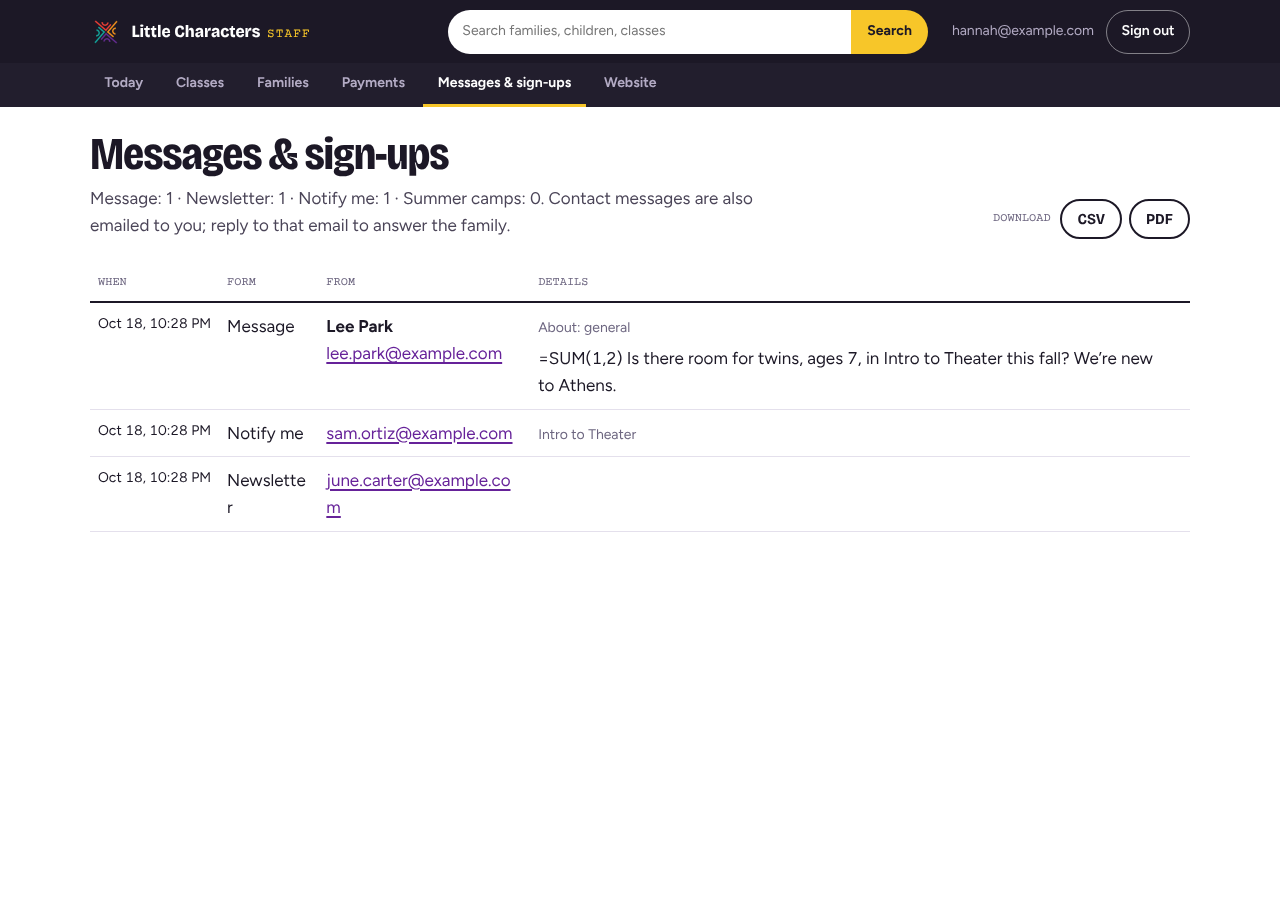
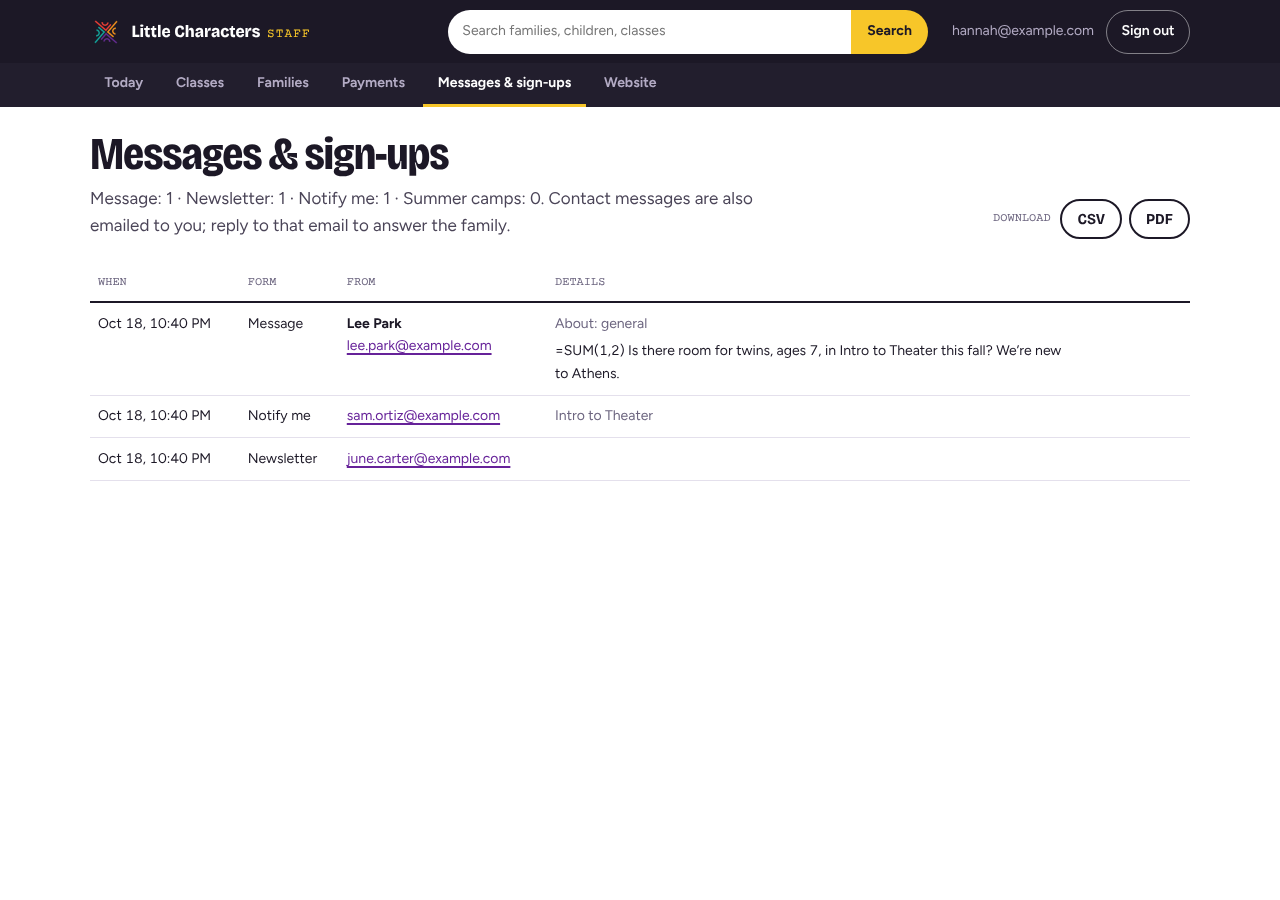
Back office foundation: table wrapping on phones, screenshots with entries, report
Claude-Session: https://claude.ai/code/session_01CxB1nuNKieCGGBpSBJkms3

Changed region(s): [[0.0625, 0.4356, 0.4062, 0.5911], [0.4062, 0.3111, 0.9062, 0.4978], [0.1875, 0.3111, 0.4062, 0.4044]]

diff --git a/src/styles/admin.css b/src/styles/admin.css
@@ -222,9 +222,10 @@
 .staff-card > h2 { font-size: var(--step-1); }
 .staff-cards { display: grid; grid-template-columns: repeat(auto-fill, minmax(min(100%, 18rem), 1fr)); gap: var(--space-m); }
 
-/* Data table: rows on a computer, stacked cards on a phone. Give each td a data-label. */
+/* Data table: rows on a computer, stacked cards on a phone. Give each td a data-label, and one child element. */
 .data-table { width: 100%; border-collapse: collapse; font-variant-numeric: tabular-nums; }
-.data-table th, .data-table td { text-align: left; padding: 0.6rem 0.5rem; border-bottom: 1px solid var(--line); vertical-align: top; overflow-wrap: anywhere; }
+.data-table th, .data-table td { text-align: left; padding: 0.6rem 0.5rem; border-bottom: 1px solid var(--line); vertical-align: top; overflow-wrap: break-word; }
+.data-table td { font-size: var(--step--1); }
 .data-table th { font-family: var(--font-script); font-size: var(--step--2); font-weight: 400; text-transform: uppercase; color: var(--ink-mute); border-bottom: 2px solid var(--ink); }
 .data-table .num { text-align: right; white-space: nowrap; }
 .data-table tbody tr:hover { background: var(--hall); }

diff --git a/.orchestration/foundation/report.md b/.orchestration/foundation/report.md
@@ -1,0 +1,157 @@
+# Foundation unit: report
+
+Branch `claude/bo-foundation`, started from `claude/blissful-archimedes-enun5m`. No compaction or restart happened during this unit.
+
+## Result
+
+### What changes for families
+Nothing they can see. The family site's pages, enrollment, checkout, billing and prices are unchanged. Their sessions still last 90 days. The database has new, empty places for emergency contacts, pickup people, ZIP code and how the family heard about Little Characters; the Family contacts unit adds the forms.
+
+### What changes for Hannah
+- **Staff pages have their own look.** On a computer there's a dark top bar with the sections (Today, Classes, Families, Payments, Messages & sign-ups, Website), a search box, her email and Sign out. On a phone there's the page title at the top with a back link and a Menu, and tabs at the bottom: Today, Classes, Search, Alerts. The family site's header and footer are gone from staff pages.
+- **New addresses:** rosters are under Classes (`/admin/classes`), monthly autopay under Payments (`/admin/payments`). Old links and bookmarks still work.
+- **`/admin` is now Today**, a placeholder for now, with links to Classes and Payments.
+- **Messages & sign-ups downloads** as a spreadsheet (CSV) and a PDF, and both have the same rows as the page. A download within 15 minutes of signing in just works. Later, she's asked for a new emailed code first ("Confirm it's you before downloading").
+- **The phone app:** "Put the app on your phone" (in the phone menu) shows how to add "LC Staff" to the home screen.
+- **Staff sign-in now lapses after 30 days without use** (it was 90 days, like families).
+
+### By file
+- **Data:** `src/server/db/schema.ts`, `drizzle/0009_back_office.sql` (+ snapshot, journal). New household columns `emergency_contacts`, `pickup_people`, `contacts_confirmed_at`, `zip`, `heard_about`. New tables `household_note`, `message`, `message_recipient`, `waitlist_offer`, with relations and exported types (`Household`, `HouseholdNote`, `Message`, `MessageRecipient`, `WaitlistOffer`, and `New…` insert types).
+- **`src/lib/contacts.ts`:** zod inputs, `normalizePhone`, `formatPhone`, `telHref`, `smsHref`, and the types `EmergencyContact` and `PickupPerson`.
+- **`src/lib/admin-links.ts`:** the link contract, plus `downloads(listPath)` and `safeStaffPath(next)`.
+- **`src/lib/badges.ts`**, **`src/components/admin/Badges.astro`:** the badges.
+- **`src/lib/csv.ts`**, **`src/server/downloads.ts`**, **`src/components/admin/DownloadLinks.astro`:** downloads. The `pdfkit` dependency is added.
+- **`src/server/staff.ts`:** `requireStaff`, `requireFreshStaff`, `signedInRecently`, `staffSessionIdle`, `readSession`.
+  - `src/middleware.ts` reads sessions through `readSession`.
+  - `src/server/auth.ts` exports the session lengths.
+  - `src/env.d.ts`: `locals.session` has `createdAt` and `updatedAt`.
+- **The shell:** `src/components/admin/AdminShell.astro` (rewritten) and `src/styles/admin.css` (the shell, plus the shared styles).
+  - `src/layouts/Base.astro` gets three small hooks: `chrome`, `themeColor` and a `head` slot.
+  - `src/components/portal/SignInPanel.astro` gets an optional `email` prop.
+- **Moved pages** (git renames, content unchanged apart from the shell props, `requireStaff` and the contract links):
+  - `admin/index.astro` → `admin/classes/index.astro`;
+  - `admin/[sessionId].astro` → `admin/classes/[sessionId].astro`;
+  - `admin/billing.astro` → `admin/payments/index.astro`;
+  - `admin/billing/[orderId].astro` → `admin/payments/[orderId].astro`.
+- **Redirects:** `admin/[sessionId].ts`, `admin/billing.ts`, `admin/billing/[orderId].ts`, `src/server/moved.ts`.
+- **New pages:**
+  - `admin/index.astro` (Today placeholder);
+  - `admin/search.astro` and `admin/attention.astro` (placeholders, so the tabs don't land on 404 before the Search and Today units merge);
+  - `admin/confirm.astro`, `admin/install.astro`;
+  - `admin/leads.pdf.ts`;
+  - `dev/age-session.ts` (development only).
+- **Leads:** `admin/leads.astro`, `admin/leads.csv.ts`, `src/server/leads.ts` (`staffLeads`, `leadsTable`, `LEAD_LABELS`, `leadWhen`).
+- **Phone app:** `public/admin/app.webmanifest`, `public/admin/icons/*.png`, `scripts/make-staff-icons.ts`.
+- **Docs:**
+  - new `docs/back-office.md`;
+  - `docs/security.md` (new data and who sees it, the staff session rules);
+  - address updates in `docs/portal.md`, `docs/staff-billing.md`, `docs/infrastructure.md`, `docs/todo.md`.
+- **Tests:**
+  - unit: `tests/unit/contacts.test.ts`, `badges.test.ts`, `downloads.test.ts`, `admin-links.test.ts`, `staff-session.test.ts`;
+  - browser: `tests/e2e/staff-foundation.mjs`;
+  - one changed line in `tests/e2e/enroll-journey.mjs`: the selector `a[href="/admin/billing/<id>"]` became `/admin/payments/<id>`, because the payments list now links to the new address. A redirect can't change an `href` on the page.
+- **Screenshots:** `.orchestration/foundation/shots/`.
+
+## Proof
+
+All with the Stripe keys blanked.
+
+- **`npm run check`:** 0 errors, 0 warnings (7 hints, all in existing browser tests).
+- **`npm test`:** 23 files, 479 tests passed. 39 of them are new: contacts 8, badges 10, CSV/PDF 7, link contract 6, session rules 8.
+  - The session tests sign in for real through Better Auth with an emailed code. They show that a staff session idle for 29 days is renewed, that one idle for 31 days reads as signed out (and is deleted), and that a family idle for 60 days stays signed in.
+- **`npm run build`:** completes.
+- **`npm run db:generate`** (`drizzle-kit generate --name back_office`): I read the SQL. It has four `CREATE TABLE`, five `ALTER TABLE household ADD COLUMN` (jsonb defaults `'[]'::jsonb NOT NULL`), the foreign keys with the asked-for cascade or set null, and six indexes. The migration applied on:
+  - each fresh local database (the unit tests and three fresh `serve.sh` databases);
+  - the Render preview step: `APP_ENV=development PGLITE_DIR=.data/ci-preview npm run db:prepare-preview` printed "Demo database ready … (peak memory 377 MB)", under CI's 450 MB limit.
+  - `billing:run --today 2026-10-01` on an in-memory database also ran.
+- **Browser tests,** on a fresh database (`tests/e2e/serve.sh`), in order:
+  - `enroll-journey` 23 checks, `trial-journey` 15, `content-editor` 11, `navigation` 64: all passed;
+  - `staff-foundation`: 86 checks passed (85 when there are no orders yet, because the old-order redirect check needs one).
+  - It covers sign-in, the top bar, the tab bar and menu at 390 px (tabs 64 px tall, menu items at least 44 px), the search box, every redirect, unknown ids returning 404, the manifest's JSON and icons without cookies, `/admin/install` (including the "using the app" message in standalone mode), and the leads CSV and PDF.
+  - On the downloads: they work right after sign-in; after aging the session 20 minutes, the CSV asks for a new code with the email filled in, and downloads after it. A formula-like message comes out as `'=SUM…`.
+  - It also checks that signed-out PDF links go to confirm, that a 31-day idle staff session is signed out, and that a signed-in parent gets 404 at 14 staff addresses.
+  - **Rate limit:** every test signs in from 127.0.0.1, and the 5-codes-a-minute limit was hit when `staff-foundation` ran right after `navigation`. The new test waits one minute and retries when the panel says "Too many tries". It printed "waiting a minute" once in the clean run.
+- **Screenshots** (`.orchestration/foundation/shots/`):
+  - the shell with the top bar: `shell-desktop.png`, `leads-desktop.png`;
+  - the phone tab bar: `shell-phone-today.png`, `shell-phone-menu.png`, `shell-phone-class.png`, `leads-phone.png`;
+  - the install page: `install-desktop.png`, `install-phone.png`;
+  - the confirm page: `confirm-desktop.png`, `confirm-phone.png`;
+  - the leads PDF: `leads.pdf`, with page 1 rendered as `leads-pdf-page-1.png`. It's landscape, with the title, "All forms, newest first · 3 entries", "Made Oct 18, 2026 for Little Characters", a table with a ruled header row, and "Page 1 of 1".
+  - In full-page phone shots the fixed tab bar shows mid-image; that's how the screenshot tool draws fixed bars, not a layout fault.
+- **Not checked:** CI on this push (I'll see it only after pushing). Installing on a real iPhone or Android phone is also unchecked: there's no device here. Chrome's install prompt can't fire on `http://localhost` in headless tests, so the Install button was checked only in its hidden state.
+
+## Decisions
+
+1. **The phone menu, not Today, carries Payments, Messages & sign-ups and Website.** It's on every page, so each is two taps away wherever Hannah is, and Today stays about today. It also holds Families, "Put the app on your phone" and Sign out.
+2. **Families (computer top bar) links to Search** until there's a families list. That's how Hannah finds people today ("she finds people through search").
+3. **Placeholders for `/admin/search` and `/admin/attention`,** so the tab bar never lands on a 404 between merges. The Search and Today units replace them.
+4. **Phone breakpoint at 760 px.** On a computer the top bar is two rows: brand, search and account, then the sections. Six sections and a search box don't fit one row below about 1,100 px.
+5. **Staff pages drop the family site's header and footer** (`chrome={false}`), so the installed app looks like an app. The staff bar is ink (`#1c1826`) like the site's existing staff button, and that's the manifest's theme color.
+6. **pdfkit for PDFs.** It's pure JavaScript, maintained (0.20.2, September 2026), with no browser or native build, so it builds on Render as is. It adds 17 packages, about 25 MB in `node_modules` (mostly its own browser builds and font data), and a 5 KB server chunk. **Fonts:** Helvetica, a standard PDF font. Embedding Figtree failed: fontkit throws a RangeError when subsetting the variable font, and the site only ships variable Figtree and Bricolage Grotesque. Helvetica covers English and accented Latin text; emoji or non-Latin scripts in a message wouldn't show in the PDF (the CSV keeps them).
+7. **The CSV and PDF of Messages & sign-ups now match the page:** all forms, newest first. The page shows up to 1,000 entries (it was 300) so the three agree. Before, the CSV exported only newsletter, notify and camp sign-ups with four columns. It now has When, Form, Name, Email, About and Message, and the Email column still imports into an email tool. Dates in the files are `2026-10-19 14:05` (Athens), which sorts in a spreadsheet.
+8. **No `download` attribute on download links.** When a new code is needed, the link must open the confirm page rather than save it as a file. After confirming, the confirm page starts the file and offers "Back to the list". For a non-download `next` (refunds later) it goes straight on.
+9. **The idle limit is checked before renewal.** Better Auth renews a session as it reads it, which would hide a 31-day gap. `readSession` reads with `disableRefresh`, deletes an idle staff session, and otherwise renews once a day exactly as Better Auth's rule does. That's two reads at most once a day, one otherwise.
+10. **The old-address redirects:**
+    - 301 for GET and 308 for posts.
+    - Signed-in non-staff get 404 before any redirect.
+    - Unknown classes return 404 directly. Unknown orders return 404 for staff, after a lookup.
+    - Signed-out visitors are redirected without a lookup, so they learn nothing about which orders exist.
+11. **Phones:** US numbers are stored as 10 digits (a leading 1 or +1 is dropped), others as `+digits`. Extensions are refused. `telHref` and `smsHref` add `+1`.
+12. **Badges:**
+    - "New" means first enrollment within the last 30 days, counted in Athens days.
+    - "Birthday" means within 3 days either side; a February 29 birthday is on the 28th in other years.
+    - The `drop-in` key is reserved in the type.
+13. **Icons:** the logo mark on ink. Purple on ink is the weakest pair but reads at home-screen size. The maskable icon keeps the mark in the middle 50%.
+14. **The content editor's own sign-in gate is unchanged.** It shows "Staff only" to signed-in families with a 200, not a 404. Switching it to `requireStaff` was outside "moved pages keep their content", and its browser test passes as is.
+15. **`/dev/age-session`** follows `/dev/mailbox`: it answers 404 when `isProd`. It can only make your own session older.
+
+## Open points
+
+1. **The roster page is 212 px too wide for a phone.** It moved unchanged, and the test notes it rather than failing. *Recommended:* the Classes unit rebuilds it with `.data-table` (it's replacing that page anyway).
+2. **Should the content editor 404 signed-in families like the other staff pages?** *Recommended:* yes, in a small follow-up using `requireStaff`, with its browser test's family check updated.
+3. **The confirm step leaves the older session in the database** until it expires (the cookie moves to the new one). *Recommended:* fine for now. A "sign out everywhere" button (already on `security.md`'s list) would tidy it.
+4. **Should the preview site keep `/dev/age-session`?** It runs with `APP_ENV=development`, like the dev mailbox. *Recommended:* keep it. It can only shorten your own session.
+5. **`npm audit`** reports existing advisories, including sharp below 0.35.5 (high, librsvg) and http-cache-semantics. pdfkit adds none. *Recommended:* a separate dependency update before launch.
+
+## Follow-up candidates
+
+- Offline attendance in Phase 2 needs a service worker. Chrome no longer needs one to install the app: web.dev's install criteria, updated September 2024, list HTTPS, a manifest with a name, 192 and 512 px icons, `start_url` and `display`, and some engagement, and no service worker. That's why none was added.
+- An "Add to Home Screen" check on a real iPhone and Android phone once the preview is up (Stephen or Hannah).
+- Embed Figtree in PDFs if pdfkit or fontkit fixes variable-font subsetting, or if static Figtree files are added.
+- Swap the old payments and roster tables to `.data-table` when the Payments and Classes units touch them.
+
+## Handoff (for the screen units)
+
+Read `docs/back-office.md`; the essentials are below.
+
+- **The check:** every staff page starts with `const { staff, response } = requireStaff(Astro.locals); if (response) return response;` (`@/server/staff`). `staff` is null when signed out, and `AdminShell` then shows the sign-in.
+- **Downloads and sensitive steps** start with `const stop = requireFreshStaff(locals, url); if (stop) return stop;`.
+- **Links:** only through `@/lib/admin-links`:
+  - `today()`, `attention()`, `classes()`, `classPage(id)`, `classPrint(id)`, `classEmail(id)`, `search(q?)`, `family(id)`;
+  - `payments(show?)`, `paymentsOrder(id)`, `leads()`, `content()`, `install()`, `confirm(next)`;
+  - `downloads(listPath)` → `{ csv, pdf }`;
+  - `safeStaffPath(next)`.
+- **Shell:** `<AdminShell title section back? wide? signIn?>`. Sections: `today | classes | families | payments | leads | content`. Give `back={{ href, label }}` to every page below a list. Wrap content in `<div class="admin-page">`.
+- **Styles** (`admin.css`):
+  - `.admin-head` + `.admin-head__actions`, `.staff-card(s)`;
+  - `.data-table` (each `td` gets a `data-label` and one child element);
+  - `.badge--neutral|good|warning|alert`, `.badges`, `.chip-row`, `.chip--good|warning|alert`, `.btn--danger`;
+  - `.empty-state`;
+  - `.attention-list` / `.attention-item--alert|warning|neutral` with `__title`, `__detail`, `__action`.
+- **Badges:** `childBadges({ hasAllergies, hasMedicalNotes, hasPickupNote, restrictedPickup?, photoConsent, firstEnrolledAt, trial, birthdate }, today?)` → `{ key, label, tone }[]`. Render with `<Badges badges={…} />`. Pass booleans only; decrypt with `readStudentNotes` on the server.
+- **Downloads:** list page `/admin/x` + `x.csv.ts` + `x.pdf.ts`, all calling one row-building function. Use `toCsv(headers, rows)` with `csvResponse(filename, csv)`, and `pdfResponse(filename, { title, subtitle, columns: [{ header, weight?, align? }], rows, orientation? })`. On the page, `<DownloadLinks {...downloads(path)} what="…" />`. The example is `staffLeads` / `leadsTable` in `src/server/leads.ts`.
+- **Data shapes:**
+  - `household.emergencyContacts: EmergencyContact[]` (`{ name, relationship, phone }`);
+  - `household.pickupPeople: PickupPerson[]` (`{ name, relationship, phone? }`);
+  - `household.contactsConfirmedAt`, `household.zip`, `household.heardAbout`;
+  - validate contacts with `emergencyContactsInput` / `pickupPeopleInput` from `@/lib/contacts`; show phones with `formatPhone`, `telHref`, `smsHref`;
+  - `householdNote { id, householdId, studentId?, body, authorUserId?, createdAt, updatedAt }`;
+  - `message { id, kind: 'class'|'family', sessionId?, subject, body, sentByUserId?, createdAt }`;
+  - `messageRecipient { id, messageId, householdId?, email, status: 'sent'|'failed', error?, createdAt }`;
+  - `waitlistOffer { id, enrollmentId, householdId, sessionId, offeredByUserId?, offeredAt, expiresAt?, status: 'offered'|'accepted'|'withdrawn'|'expired', orderId? }`.
+- **Placeholders to replace:** `src/pages/admin/index.astro` (Today), `admin/attention.astro` (Today unit), `admin/search.astro` (Search unit).
+- **Browser tests:** sign in through `/dev/mailbox` codes. Age a session with `POST /dev/age-session` (`minutes` or `days`, with an `origin` header). Expect the 5-codes-a-minute limit when tests run back to back. `staff-foundation.mjs` shows the wait-and-retry.
+
+## Compaction
+
+None occurred.

diff --git a/.orchestration/foundation/state.md b/.orchestration/foundation/state.md
@@ -1,18 +1,17 @@
 # Foundation unit: state
 
-## Done
-- Migration `0009_back_office` (household contact columns, household_note, message, message_recipient, waitlist_offer).
-- `src/lib/contacts.ts`, `src/lib/badges.ts`, `src/lib/csv.ts`, `src/lib/admin-links.ts`, `src/server/downloads.ts` (pdfkit), `src/server/staff.ts` (+ middleware uses `readSession`).
-- Unit tests for each.
+## Status: done, report written (`report.md`)
 
-## Next
-- Shell (AdminShell + admin.css), page moves and redirects, Today placeholder, leads CSV/PDF, confirm page, dev session ager, manifest/icons/install page, docs, browser test, screenshots.
+## Commits (branch `claude/bo-foundation`)
+1. Data, contacts, badges, downloads, link contract, staff sign-in rules.
+2. Staff shell for computer and phone, page moves and redirects, downloads, fresh sign-in, phone app shell.
+3. Table wrapping fix, leads screenshots with entries, report.
 
 ## Decisions
-- US phones stored as 10 digits (leading 1/+1 dropped); other countries as +digits.
-- Birthday badge: 3 days either side; Feb 29 birthdays fall on Feb 28 in other years.
-- PDF uses Helvetica: pdfkit fails to subset the site's variable fonts (fontkit RangeError).
-- Staff idle check reads the session with `disableRefresh`, then renews as Better Auth does.
+- See `report.md` → Decisions.
 
 ## Open questions
-- none yet
+- None blocking. Recommendations are in `report.md` → Open points.
+
+## Next action
+- Coordinator: review and merge; the screen units can start from `docs/back-office.md`.

diff --git a/docs/back-office.md b/docs/back-office.md
@@ -64,7 +64,7 @@ Use these instead of page-level styles.
 | `.admin-page` | The page's column, with spacing |
 | `.admin-head`, `.admin-head__actions`, `.admin-intro`, `.admin-crumbs` | Page header: title and a line on the left, buttons on the right |
 | `.staff-card`, `.staff-cards` | A bordered card; a grid of them |
-| `.data-table` | A table that becomes stacked cards on phones. Give every `td` a `data-label` (the column name); `.num` right-aligns numbers |
+| `.data-table` | A table that becomes stacked cards on phones. Give every `td` a `data-label` (the column name), and wrap a cell's content in one element when it has more than one; `.num` right-aligns numbers |
 | `.badge` + `.badge--neutral`, `--good`, `--warning`, `--alert`; `.badges` | Status labels (not buttons), in a row |
 | `.chip` (site-wide) + `.chip-row`, `.chip--good`, `--warning`, `--alert` | Filter buttons, with `aria-pressed` |
 | `.btn` (site-wide), `.btn--primary`, `--outline`, `--sm`, `.btn--danger` | Buttons. On phones `.btn--sm` grows to 44 px |
